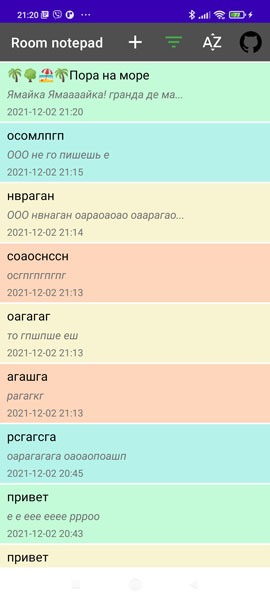
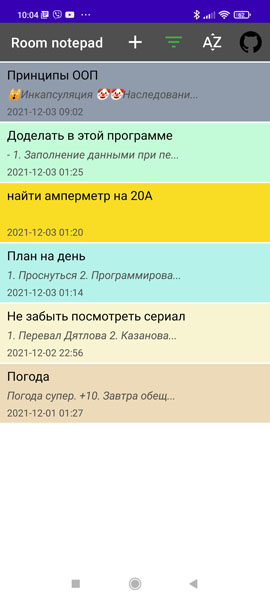
Increased the number of colors during editing to 16. Made the preservation of the selected color in the SharedPreferences.

diff --git a/app/src/main/java/com/example/notepad/NoteDetailFragment.java b/app/src/main/java/com/example/notepad/NoteDetailFragment.java
@@ -4,7 +4,6 @@ import android.content.Context;
 import android.content.DialogInterface;
 import android.os.Bundle;
 
-import androidx.annotation.ColorInt;
 import androidx.annotation.NonNull;
 import androidx.fragment.app.Fragment;
 
@@ -19,8 +18,8 @@ import android.widget.EditText;
 import android.widget.LinearLayout;
 import android.widget.TextView;
 
-import com.example.constants.IColor;
 import com.example.constants.IConst;
+import com.example.model.MyColor;
 import com.example.model.MySharedPreferences;
 import com.example.model.Note;
 import com.example.model.NoteDao;
@@ -31,7 +30,7 @@ import com.example.util.IToast;
 import java.io.Serializable;
 
 
-public class NoteDetailFragment extends Fragment implements IConst, IToast, IBasicDialog, IColor, ColorDialogFragment.CallbackColorDialog {
+public class NoteDetailFragment extends Fragment implements IConst, IToast, IBasicDialog, ColorDialogFragment.CallbackColorDialog {
 
     private static final String COLOR_DIALOG_FRAGMENT_TAG = "color_dialog_tag";
 
@@ -44,8 +43,7 @@ public class NoteDetailFragment extends Fragment implements IConst, IToast, IBas
     private Note inputNote;
     private NoteDao dao;
 
-    @ColorInt
-    private int color;
+    private int colorCode;
 
     private IGeneralMenu iGeneralMenu;
     private IChangeFragment iChangeFragment;
@@ -81,15 +79,6 @@ public class NoteDetailFragment extends Fragment implements IConst, IToast, IBas
             loadFromArguments();
         }
 
-
-        if(inputNote.getColor() == COLOR_NONE) {
-            color = getDefaultColor();
-        } else {
-            color = inputNote.getColor();
-        }
-
-        setColor(color);
-
         setHasOptionsMenu(true);
         return view;
     }
@@ -113,6 +102,8 @@ public class NoteDetailFragment extends Fragment implements IConst, IToast, IBas
         addNoteToView(editNote);
         setSelectInEt(etTitle, selectTitle);
         setSelectInEt(etMemo, selectMemo);
+        this.colorCode = bundle.getInt(KEY_COLOR);
+        setColorCode(colorCode);
 
         if(selectTitle.isEdit() || selectMemo.isEdit()) {
             openKeyboard();
@@ -122,6 +113,13 @@ public class NoteDetailFragment extends Fragment implements IConst, IToast, IBas
     private void loadFromArguments() {
         inputNote = getArguments().getParcelable(KEY_ONE_NOTE);
         addNoteToView(inputNote);
+
+        int colorCode = inputNote.getColor();
+        if( colorCode == CODE_COLOR_NONE) {
+            setColorCode(readColorCodeFromShared());
+        } else {
+            setColorCode(colorCode);
+        }
     }
 
     private void addNoteToView(Note note) {
@@ -133,7 +131,7 @@ public class NoteDetailFragment extends Fragment implements IConst, IToast, IBas
     private void updateInputNoteFromView() {
         inputNote.setTitle(etTitle.getText().toString());
         inputNote.setMemo(etMemo.getText().toString());
-        inputNote.setColor(color);
+        inputNote.setColor(colorCode);
         String updateDt = DataTimeUtil.getStringCurrentDateTime();
         inputNote.setDt(updateDt);
     }
@@ -142,7 +140,7 @@ public class NoteDetailFragment extends Fragment implements IConst, IToast, IBas
         String title = etTitle.getText().toString();
         String memo = etMemo.getText().toString();
         String dt = tvDateTime.getText().toString();
-        return new Note(title, memo, dt, color);
+        return new Note(title, memo, dt, colorCode);
     }
 
     private Note createNoteFromViewWithCurrentDt() {
@@ -183,6 +181,7 @@ public class NoteDetailFragment extends Fragment implements IConst, IToast, IBas
             updateInputNoteFromView();
             dao.update(inputNote);
         }
+        saveColorCodeToShared();
         iChangeFragment.showNotesFragment();
     }
 
@@ -210,6 +209,8 @@ public class NoteDetailFragment extends Fragment implements IConst, IToast, IBas
 
         outState.putSerializable(KEY_SELECT_TITLE, selectTitle);
         outState.putSerializable(KEY_SELECT_MEMO, selectMemo);
+        outState.putSerializable(KEY_SELECT_MEMO, selectMemo);
+        outState.putInt(KEY_COLOR, colorCode);
     }
 
     private static class Select implements Serializable {
@@ -239,22 +240,26 @@ public class NoteDetailFragment extends Fragment implements IConst, IToast, IBas
         dialog.show(getChildFragmentManager(), COLOR_DIALOG_FRAGMENT_TAG);
     }
 
-    private void setColor(@ColorInt int color) {
-        this.color = color;
-        llNoteDetail.setBackgroundColor(color);
-        MySharedPreferences mySharedPreferences = MySharedPreferences.getInstance(getContext());
-        mySharedPreferences.putInt(KEY_SHARED_COLOR, color);
+
+    private void setColorCode(int colorCode) {
+        this.colorCode = colorCode;
+        llNoteDetail.setBackgroundColor(colorCode);
     }
 
-    private int getDefaultColor() {
+    private int readColorCodeFromShared() {
         MySharedPreferences mySharedPreferences = MySharedPreferences.getInstance(getContext());
-        return mySharedPreferences.getInt(KEY_SHARED_COLOR, COLOR_DEFAULT);
+        return mySharedPreferences.getInt(KEY_SHARED_COLOR_CODE, COLOR_DEFAULT.getCode());
+    }
+
+    private void saveColorCodeToShared() {
+        MySharedPreferences mySharedPreferences = MySharedPreferences.getInstance(getContext());
+        mySharedPreferences.putInt(KEY_SHARED_COLOR_CODE, colorCode);
     }
 
 
     @Override
-    public void resultColorDialog(int color) {
-        setColor(color);
+    public void resultColorDialog(MyColor color) {
+        setColorCode(color.getCode());
     }
 
 

diff --git a/app/src/main/java/com/example/notepad/ColorDialogFragment.java b/app/src/main/java/com/example/notepad/ColorDialogFragment.java
@@ -6,27 +6,21 @@ import android.content.DialogInterface;
 import android.graphics.PorterDuff;
 import android.graphics.PorterDuffColorFilter;
 import android.graphics.drawable.Drawable;
-import android.graphics.drawable.StateListDrawable;
 import android.os.Bundle;
-import android.view.ContextThemeWrapper;
 import android.view.LayoutInflater;
 import android.view.View;
-import android.widget.Button;
-import android.widget.CompoundButton;
-import android.widget.RadioButton;
-import android.widget.RadioGroup;
 import android.widget.TextView;
 
 import androidx.annotation.NonNull;
 import androidx.annotation.Nullable;
 import androidx.fragment.app.DialogFragment;
 
-import com.example.constants.IColor;
 import com.example.constants.IConst;
+import com.example.model.MyColor;
 import com.example.util.ILog;
 
 //Вызывать из фрагмента, ParentFragment должен реализовывать интерфейс Callback
-public class ColorDialogFragment extends DialogFragment implements IConst, ILog, IColor {
+public class ColorDialogFragment extends DialogFragment implements IConst, ILog {
 
     private TextView tvColor1;
     private TextView tvColor2;
@@ -37,6 +31,13 @@ public class ColorDialogFragment extends DialogFragment implements IConst, ILog,
     private TextView tvColor7;
     private TextView tvColor8;
     private TextView tvColor9;
+    private TextView tvColor10;
+    private TextView tvColor11;
+    private TextView tvColor12;
+    private TextView tvColor13;
+    private TextView tvColor14;
+    private TextView tvColor15;
+    private TextView tvColor16;
 
     private CallbackColorDialog callbackColorDialog;
 
@@ -71,14 +72,21 @@ public class ColorDialogFragment extends DialogFragment implements IConst, ILog,
                 tvColor7,
                 tvColor8,
                 tvColor9,
+                tvColor10,
+                tvColor11,
+                tvColor12,
+                tvColor13,
+                tvColor14,
+                tvColor15,
+                tvColor16,
                         };
 
         for (int i = 0; i < textViews.length; i++) {
             TextView tv = textViews[i];
-            int color = COLORS[i];
+            MyColor color = MyColor.get(i);
             tv.setTag(color);
             Drawable background = getResources().getDrawable(R.drawable.shape_tv_color);
-            background.setColorFilter(new PorterDuffColorFilter(color, PorterDuff.Mode.MULTIPLY));
+            background.setColorFilter(new PorterDuffColorFilter(color.getCode(), PorterDuff.Mode.MULTIPLY));
             tv.setBackground(background);
             tv.setOnClickListener(this::clickColor);
         }
@@ -100,10 +108,17 @@ public class ColorDialogFragment extends DialogFragment implements IConst, ILog,
         tvColor7 = view.findViewById(R.id.tvColor7);
         tvColor8 = view.findViewById(R.id.tvColor8);
         tvColor9 = view.findViewById(R.id.tvColor9);
+        tvColor10 = view.findViewById(R.id.tvColor10);
+        tvColor11 = view.findViewById(R.id.tvColor11);
+        tvColor12 = view.findViewById(R.id.tvColor12);
+        tvColor13 = view.findViewById(R.id.tvColor13);
+        tvColor14 = view.findViewById(R.id.tvColor14);
+        tvColor15 = view.findViewById(R.id.tvColor15);
+        tvColor16 = view.findViewById(R.id.tvColor16);
     }
 
     private void clickColor(View view) {
-        int color = (Integer) view.getTag();
+        MyColor color = (MyColor) view.getTag();
         callbackColorDialog.resultColorDialog(color);
         dismiss();
     }
@@ -118,7 +133,7 @@ public class ColorDialogFragment extends DialogFragment implements IConst, ILog,
     }
 
     public interface CallbackColorDialog {
-        void resultColorDialog(int color);
+        void resultColorDialog(MyColor color);
     }
 
 

diff --git a/app/src/main/java/com/example/constants/IConst.java b/app/src/main/java/com/example/constants/IConst.java
@@ -1,21 +1,24 @@
 package com.example.constants;
 
+import com.example.model.MyColor;
+
 public interface IConst {
     String KEY_NOTES = "key_notes";
     String KEY_ONE_NOTE = "key_note_detail";
     String KEY_NOTE_FROM_VIEW = "key_note_from_view";
     String KEY_SELECT_TITLE = "key_title_select";
     String KEY_SELECT_MEMO = "key_memo_select";
-    String KEY_SORT = "key_sort";
-    String KEY_FILTER = "key_filter";
     String KEY_DIALOG_NAMES = "key_dialog_names";
     String KEY_DIALOG_TITLE = "key_dialog_title";
     String KEY_DIALOG_CHECK_NUM = "key_dialog_check_num";
     String KEY_DIALOG_TYPE = "key_dialog_type";
+    String KEY_COLOR = "key_color";
     String KEY_RECOVERY = "key_recovery";
     String KEY_SHARED_FILTER = "key_shared_filter_name";
     String KEY_SHARED_SORT = "key_shared_sort_name";
-    String KEY_SHARED_COLOR = "key_shared_color";
+    String KEY_SHARED_COLOR_CODE = "key_shared_color";
+    MyColor COLOR_DEFAULT = MyColor.COLOR1;
+    int CODE_COLOR_NONE = 0;
 
     String GIT_URL = "https://github.com/AlexeyPertsukh/hw41-android-room-notepad";
 }

diff --git a/app/src/main/java/com/example/model/MyColor.java b/app/src/main/java/com/example/model/MyColor.java
@@ -1,0 +1,44 @@
+package com.example.model;
+
+//подборка пастельных цветов: https://awdee.ru/podborka-pastelnyh-tsvetov-ot-color-thisislosko/
+
+import java.io.Serializable;
+
+public enum MyColor implements Serializable {
+    COLOR1(0xFFF8F4D1),
+    COLOR2(0xFFFED6BC),
+    COLOR3(0xFFDEF7FE),
+    COLOR4(0xFFE7ECFF),
+    COLOR5(0xFFC3FBD8),
+    COLOR6(0xFFFDEED9),
+    COLOR7(0xFFE5AFEE),
+    COLOR8(0xFFdbdad6),
+    COLOR9(0xFFB5F2EA),
+    COLOR10(0xFF909CAC),
+    COLOR11(0xFFecdab9),
+    COLOR12(0xFFffa577),
+    COLOR13(0xFFa47053),
+//    COLOR14(0xFFd55448),
+//    COLOR14(0xFFff420e),
+    COLOR14(0xFFe74c3c),
+    COLOR15(0xFFf9dc24),
+    COLOR16(0xFF8eba43),
+    ;
+
+
+    private final int code;
+
+    MyColor(int code) {
+        this.code = code;
+    }
+
+    public int getCode() {
+        return code;
+    }
+
+    public static MyColor get(int num) {
+        MyColor[] colors = values();
+        return colors[num];
+    }
+}
+

diff --git a/app/src/main/java/com/example/model/NoteAdapter.java b/app/src/main/java/com/example/model/NoteAdapter.java
@@ -1,9 +1,5 @@
 package com.example.model;
 
-import android.graphics.Color;
-import android.graphics.PorterDuff;
-import android.graphics.PorterDuffColorFilter;
-import android.graphics.drawable.Drawable;
 import android.view.LayoutInflater;
 import android.view.View;
 import android.view.ViewGroup;
@@ -12,13 +8,12 @@ import android.widget.TextView;
 import androidx.annotation.NonNull;
 import androidx.recyclerview.widget.RecyclerView;
 
-import com.example.constants.IColor;
 import com.example.notepad.R;
 
 import java.io.Serializable;
 import java.util.ArrayList;
 
-public class NoteAdapter extends RecyclerView.Adapter<NoteAdapter.ViewHolder> implements Serializable, IColor {
+public class NoteAdapter extends RecyclerView.Adapter<NoteAdapter.ViewHolder> implements Serializable {
     private final static int LENGTH_SHORT_MEMO = 30;
     private final ArrayList<Note> notes;
     private OnClickItem onClickItem;

diff --git a/app/src/main/java/com/example/model/NoteNull.java b/app/src/main/java/com/example/model/NoteNull.java
@@ -1,8 +1,8 @@
 package com.example.model;
 
-import com.example.constants.IColor;
+import com.example.constants.IConst;
 
-public class NoteNull extends Note implements IColor{
+public class NoteNull extends Note implements IConst {
 
     private static NoteNull instance;
 
@@ -38,6 +38,6 @@ public class NoteNull extends Note implements IColor{
 
     @Override
     public int getColor() {
-        return COLOR_NONE;
+        return CODE_COLOR_NONE;
     }
 }

diff --git a/app/src/main/java/com/example/model/Filter.java b/app/src/main/java/com/example/model/Filter.java
@@ -10,7 +10,7 @@ public enum Filter implements Serializable {
     ;
 
     private final String query;
-    private String description;
+    private final String description;
 
     Filter(String query, String description) {
         this.query = query;
